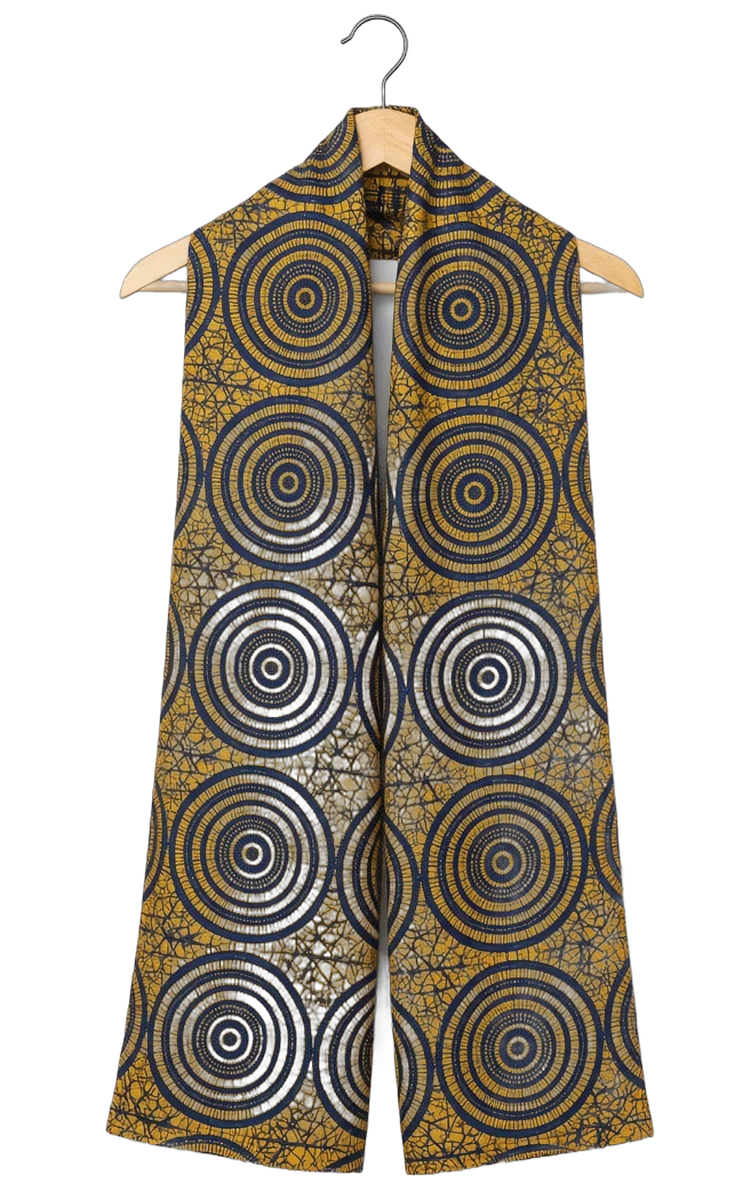
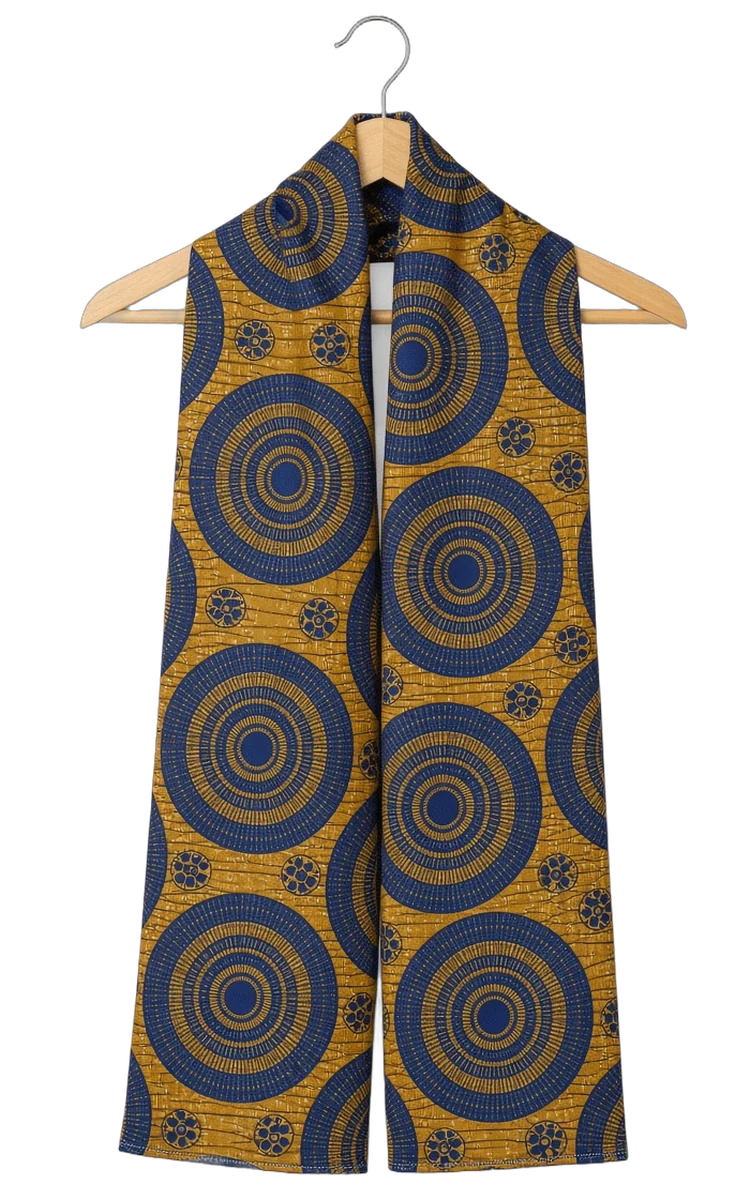
Images plus légères sur téléphone, foulard ocre refait

diff --git a/src/components/Portant.tsx b/src/components/Portant.tsx
@@ -25,6 +25,8 @@ const SUR_PORTANT = produits.filter((p) => p.surPortant);
 
 /** Nom partagé par le vêtement du portant et celui de la vue rapprochée pendant l'animation. */
 const NOM_TRANSITION = "vetement-actif";
+// Même taille de photo sur la tringle et dans la vue rapprochée : l'image est déjà chargée quand l'animation démarre.
+const TAILLE_PHOTO = "(min-width: 768px) 320px, 260px";
 
 function animationsAutorisees() {
   return (
@@ -127,6 +129,7 @@ export function Portant() {
                   couleur={p.couleurs[0]}
                   photo={photoDetouree(p, p.couleurs[0], "recto")}
                   chargement="eager"
+                  sizes={TAILLE_PHOTO}
                   className="block h-auto w-full"
                 />
               </span>
@@ -214,6 +217,7 @@ function VueRapprochee({ produit, onFermer }: { produit: Produit; onFermer: () =
                   face="recto"
                   photo={photoFace}
                   chargement="eager"
+                  sizes={TAILLE_PHOTO}
                   titre={`${produit.nom}, ${COULEURS[couleur].nom}, vu de face`}
                   className="block h-auto w-full"
                 />
@@ -225,6 +229,7 @@ function VueRapprochee({ produit, onFermer }: { produit: Produit; onFermer: () =
                   couleur={couleur}
                   face="verso"
                   photo={photoDos}
+                  sizes={TAILLE_PHOTO}
                   titre={`${produit.nom}, ${COULEURS[couleur].nom}, vu de dos`}
                   className="block h-auto w-full"
                 />

diff --git a/src/components/Vetement.tsx b/src/components/Vetement.tsx
@@ -1,5 +1,7 @@
 "use client";
 
+import Image from "next/image";
+
 import { useId, type ReactNode } from "react";
 import type { CouleurId, Motif, Silhouette } from "@/data/produits";
 
@@ -340,6 +342,8 @@ type Props = {
   photo?: string;
   /** "eager" pour une photo visible dès l'arrivée sur la page (portant), "lazy" sinon. */
   chargement?: "eager" | "lazy";
+  /** Largeur affichée de la photo (attribut sizes) : le navigateur télécharge une version à la bonne taille. */
+  sizes?: string;
   /** Texte alternatif. Sans titre, l'image est décorative. */
   titre?: string;
   className?: string;
@@ -352,6 +356,7 @@ export function Vetement({
   face = "recto",
   photo,
   chargement = "lazy",
+  sizes = "(min-width: 768px) 25vw, 50vw",
   titre,
   className = "",
 }: Props) {
@@ -359,14 +364,14 @@ export function Vetement({
 
   if (photo) {
     return (
-      // eslint-disable-next-line @next/next/no-img-element -- photo détourée locale, déjà au format WebP 750 × 1200
-      <img
+      // Photo détourée 750 × 1200, servie à la taille d'affichage (souvent 4 à 8 fois plus légère sur téléphone).
+      <Image
         src={photo}
         alt={titre ?? ""}
         width={750}
         height={1200}
+        sizes={sizes}
         loading={chargement}
-        decoding="async"
         draggable={false}
         className={`object-contain ${className}`}
       />

diff --git a/src/components/VisuelProduit.tsx b/src/components/VisuelProduit.tsx
@@ -58,6 +58,7 @@ export function VisuelProduit({
               face={face}
               photo={detoure}
               chargement={priorite ? "eager" : "lazy"}
+              sizes={sizes}
               className="h-full w-auto drop-shadow-[0_10px_12px_rgba(0,0,0,0.16)]"
             />
           </div>
@@ -67,7 +68,8 @@ export function VisuelProduit({
               alt=""
               fill
               sizes={sizes}
-              className="object-cover opacity-0 transition-opacity duration-500 pointer-fine:group-hover:opacity-100"
+              // Masquée sur téléphone (pas de survol) : elle n'y est donc jamais téléchargée.
+              className="hidden object-cover opacity-0 transition-opacity duration-500 pointer-fine:block pointer-fine:group-hover:opacity-100"
             />
           )}
         </>

diff --git a/scripts/generer_visuels.py b/scripts/generer_visuels.py
@@ -14,6 +14,7 @@ Trois familles d'images :
   py scripts/generer_visuels.py --portes              photos portées (une par produit)
   py scripts/generer_visuels.py --ambiances           images d'ambiance du site
   py scripts/generer_visuels.py --produit kaftan-homme --refaire
+  py scripts/generer_visuels.py --produit foulard-tete-wax --couleur ocre --refaire
   py scripts/generer_visuels.py --ambiances --nom campagne --refaire
   py scripts/generer_visuels.py --detourer            refait seulement détourage et compression (gratuit)
 
@@ -257,6 +258,8 @@ def taches_produits(config, args, manifeste):
         cadrage = produit.get("cadrage", "crochet")
         faces = ["recto", "verso"] if args.dos and produit.get("dos") else ["recto"]
         for i, couleur in enumerate(couleurs):
+            if args.couleur and couleur != args.couleur:
+                continue
             for face in faces:
                 nom = nom_fichier(slug, couleur, face)
                 if face == "recto" and i == 0:
@@ -366,6 +369,7 @@ def main():
     parser.add_argument("--portes", action="store_true", help="photos portées par un mannequin fictif")
     parser.add_argument("--ambiances", action="store_true", help="images d'ambiance du site")
     parser.add_argument("--produit", help="un seul produit (slug)")
+    parser.add_argument("--couleur", help="une seule couleur du produit (avec --produit), ex. ocre")
     parser.add_argument("--nom", help="une seule image d'ambiance (ex. campagne)")
     parser.add_argument("--refaire", action="store_true", help="refaire même si l'image existe déjà")
     parser.add_argument("--detourer", action="store_true", help="retraiter les images déjà générées (gratuit)")
@@ -375,6 +379,11 @@ def main():
     config = lire_json(CONFIG, None) or sys.exit(f"Fichier introuvable : {CONFIG}")
     if args.produit and args.produit not in config["produits"]:
         sys.exit(f"Produit inconnu : {args.produit}. Choix : {', '.join(config['produits'])}")
+    if args.couleur and not args.produit:
+        sys.exit("--couleur s'utilise avec --produit, ex. --produit foulard-tete-wax --couleur ocre")
+    if args.couleur and args.couleur not in config["produits"][args.produit]["couleurs"]:
+        couleurs = ", ".join(config["produits"][args.produit]["couleurs"])
+        sys.exit(f"Couleur inconnue pour {args.produit} : {args.couleur}. Choix : {couleurs}")
     if args.nom and args.nom not in config["ambiances"]["images"]:
         sys.exit(f"Ambiance inconnue : {args.nom}. Choix : {', '.join(config['ambiances']['images'])}")
 

diff --git a/README.md b/README.md
@@ -107,6 +107,7 @@ py scripts/generer_visuels.py --portes     # une photo portée par produit, envi
 py scripts/generer_visuels.py --ambiances  # 10 images d'ambiance, environ 0,40 $
 py scripts/generer_visuels.py --dos        # facultatif : les dos des vêtements
 py scripts/generer_visuels.py --produit kaftan-homme --refaire          # refaire un produit raté
+py scripts/generer_visuels.py --produit foulard-tete-wax --couleur ocre --refaire   # une seule couleur
 py scripts/generer_visuels.py --ambiances --nom campagne --refaire     # refaire une ambiance
 ```
 
